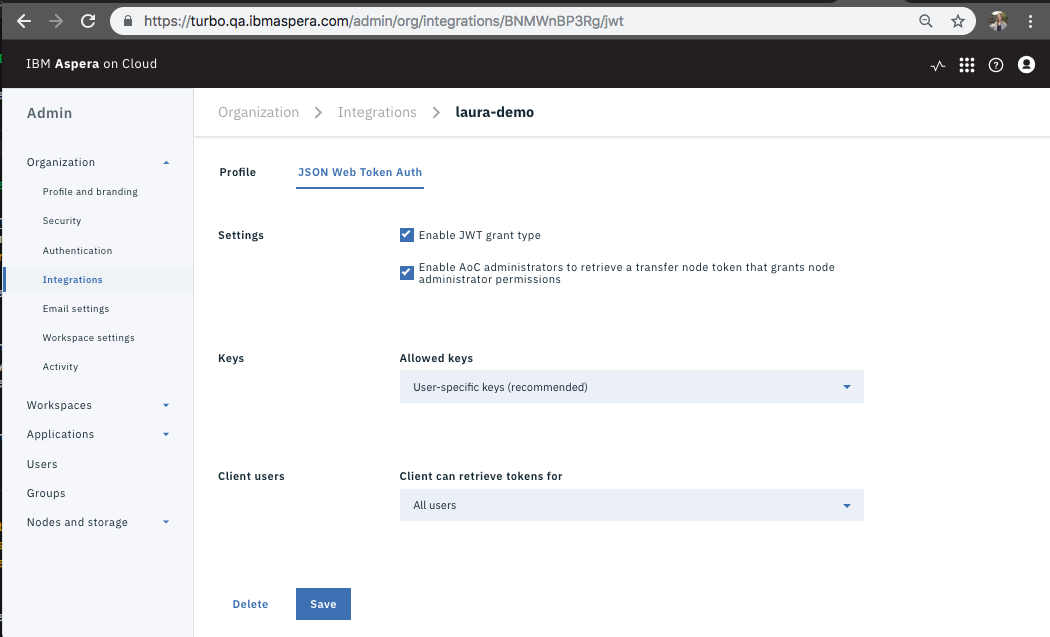
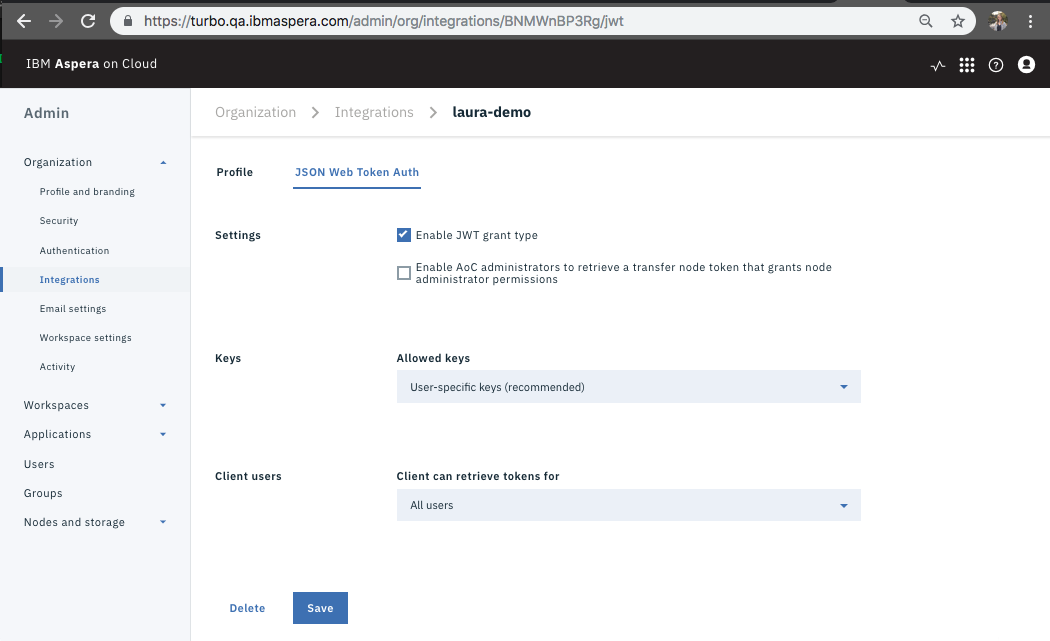
resolve remaining questions that were listed in docs

diff --git a/setup.md b/setup.md
@@ -77,19 +77,19 @@ In this portion of the tutorial, we will work on obtaining the following pieces 
      <img src="images/9-jwt-landing.png"/>
     </div>
 
-1. Make the following selections to permit authentication (double check this, may not need to grant as much access).
+1. Select the check-box for "Enable JWT grant type".
 
     <div class="demo-image">
      <img src="images/10-jwt-selections.png"/>
     </div>
 
-1. Make the additional following selections to permit authentication (double check this, may not need to grant as much access).
+1. From the drop-down menu, select, "User-specific keys and global key".
 
     <div class="demo-image">
      <img src="images/11-jwt-selections-continued.png"/>
     </div>
 
-1. Confirm that you would like to permit global keys.
+1. Confirm that you would like to permit global keys. Click "Yes".
 
     <div class="demo-image">
      <img src="images/12-allow-gloabl-keys.png"/>
